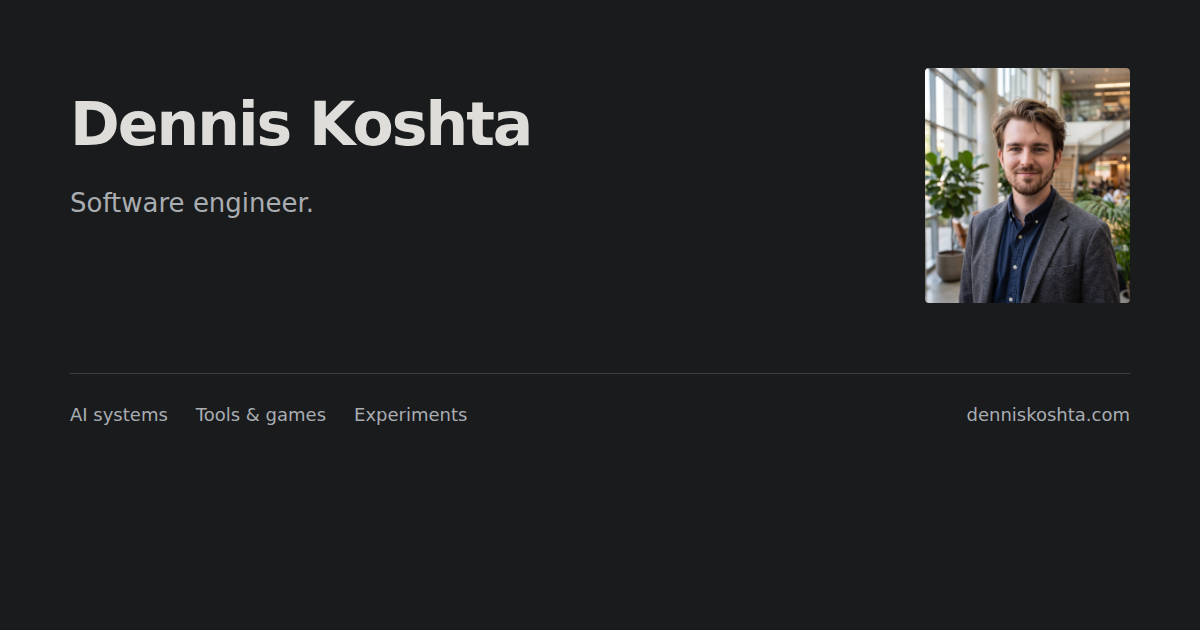
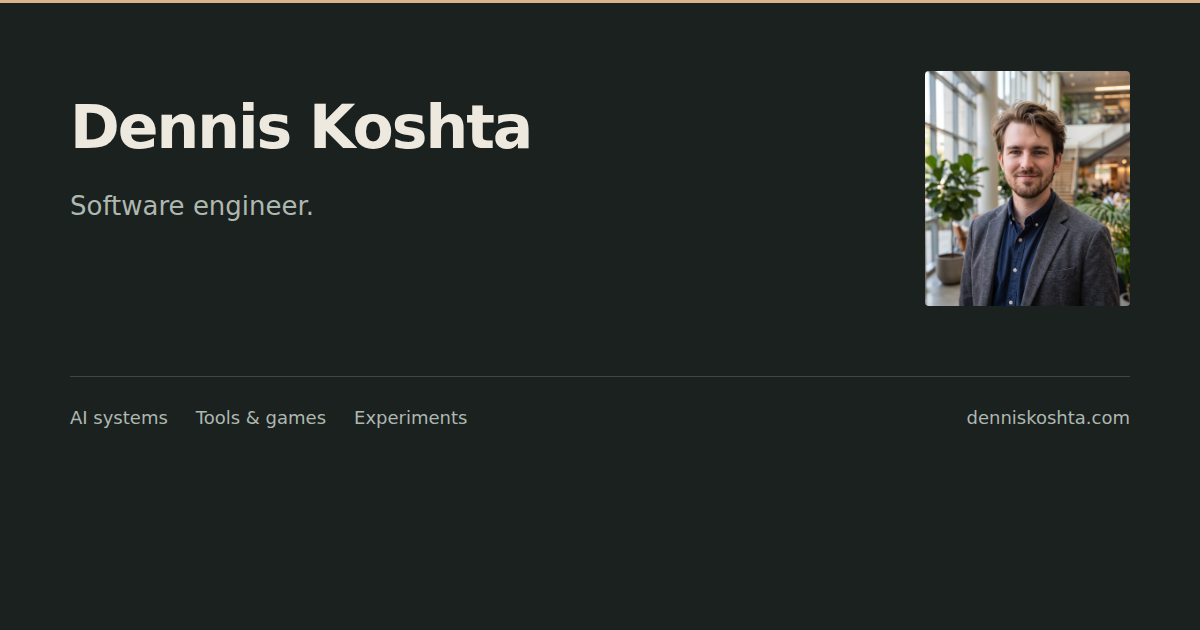
Update Site source

diff --git a/styles/site.css b/styles/site.css
@@ -1,12 +1,14 @@
 /* A text-first personal site. System fonts; no decorative animations. */
 :root {
   color-scheme: dark;
-  --bg: #191b1d;
-  --text: #deddd9;
-  --muted: #a9adb2;
-  --link: #a4c6e6;
-  --rule: #3c3f43;
-  --field: #222528;
+  --bg: #1b211f;
+  --text: #d8ddd6;
+  --heading: #eee9df;
+  --accent: #d8b58b;
+  --muted: #adb8b0;
+  --link: #b6cdbd;
+  --rule: #3c4941;
+  --field: #242e28;
 }
 * { box-sizing: border-box; }
 html { scroll-padding-top: 20px; }
@@ -14,11 +16,12 @@ body { margin: 0; background: var(--bg); color: var(--text); font: 16px/1.65 -ap
 main, .site-header, .site-footer { width: min(100% - 48px, 860px); margin-inline: auto; }
 main { min-height: 50vh; }
 a { color: var(--link); text-decoration-thickness: 1px; text-underline-offset: 3px; }
-a:hover { color: var(--text); }
+a:hover { color: var(--accent); }
+::selection { background: #465a4d; color: #fff; }
 :focus-visible { outline: 2px solid var(--link); outline-offset: 4px; }
 [hidden] { display: none !important; }
-h1, h2, h3 { color: var(--text); line-height: 1.3; font-weight: 600; }
-h1 { font-size: 32px; margin: 0 0 20px; letter-spacing: -.025em; }
+h1, h2, h3 { color: var(--heading); line-height: 1.3; font-weight: 600; }
+h1 { font-size: 36px; margin: 0 0 20px; letter-spacing: -.025em; }
 h2 { font-size: 22px; margin: 0 0 18px; }
 h3 { font-size: 17px; margin: 0 0 5px; }
 p { margin: 0 0 16px; }
@@ -28,11 +31,12 @@ ul, ol { padding-left: 22px; }
 li { margin-bottom: 8px; }
 main > section, .prose > section { margin-top: 38px; }
 .small, .byline, figcaption { color: var(--muted); font-size: 14px; }
-.site-header { display: flex; justify-content: space-between; align-items: baseline; gap: 24px; padding-block: 28px 36px; font-size: 14px; }
+.site-header { position: relative; border-top: 1px solid var(--rule); display: flex; justify-content: space-between; align-items: baseline; gap: 24px; padding-block: 28px 36px; font-size: 14px; }
+.site-header::before { content: ""; position: absolute; top: -1px; left: 0; width: 52px; height: 3px; background: var(--accent); }
 .site-header > a { color: var(--text); text-decoration: none; }
 .site-header nav { display: flex; gap: 24px; }
 .site-header nav a { color: var(--muted); text-decoration: none; }
-.site-header nav a:hover, .site-header nav [aria-current] { color: var(--text); text-decoration: underline; }
+.site-header nav a:hover, .site-header nav [aria-current] { color: var(--accent); text-decoration: underline; text-underline-offset: 7px; }
 .home .site-header { justify-content: flex-end; padding-bottom: 24px; }
 .site-footer { display: flex; justify-content: space-between; gap: 20px; margin-top: 52px; padding-block: 22px 30px; border-top: 1px solid var(--rule); color: var(--muted); font-size: 13px; }
 .site-footer > div { display: flex; gap: 18px; }
@@ -40,22 +44,31 @@ main > section, .prose > section { margin-top: 38px; }
 .skip-link { position: absolute; left: 20px; top: -100px; padding: 8px 14px; background: var(--bg); z-index: 10; }
 .skip-link:focus { top: 10px; }
 .bio { display: grid; grid-template-columns: minmax(0,1fr) 150px; gap: 36px; align-items: start; margin-top: 8px; }
-.bio h1 { margin-bottom: 16px; }
-.portrait { width: 150px; aspect-ratio: .82; height: auto; object-fit: cover; object-position: center 25%; border-radius: 2px; }
+.bio h1 { margin-bottom: 18px; font-size: 42px; letter-spacing: -.04em; }
+.portrait { width: 150px; aspect-ratio: .82; height: auto; object-fit: cover; object-position: center 25%; border-radius: 3px; box-shadow: 5px 5px 0 var(--field); border: 1px solid var(--rule); }
 .contact-links { font-size: 14px; margin-bottom: 0; }
-.home > main > section:not(.bio) > h2 { padding-bottom: 10px; border-bottom: 1px solid var(--rule); }
+.home > main > section:not(.bio) > h2, .catalog-group > h2 { display: flex; align-items: center; gap: 20px; letter-spacing: -.02em; }
+.home > main > section:not(.bio) > h2::after, .catalog-group > h2::after { content: ""; flex: 1; min-width: 20px; height: 1px; background: var(--rule); }
+.home > main > section:not(.bio) { margin-top: 48px; }
 .project-list, .writing-list, .studio-list, .experience-list { padding: 0; list-style: none; margin: 0; }
 .project-entry { margin: 0 0 23px; }
 .project-entry p { margin-bottom: 4px; }
-.project-entry h3 a, .writing-list h3 a, .studio-list h3 a { text-decoration: none; }
-.project-entry h3 a:hover, .writing-list h3 a:hover, .studio-list h3 a:hover { text-decoration: underline; }
+.project-entry h3 a, .writing-list h3 a, .studio-list h3 a, .demo-intro h3 a { color: var(--heading); text-decoration: none; }
+.project-entry h3 a:hover, .writing-list h3 a:hover, .studio-list h3 a:hover, .demo-intro h3 a:hover { color: var(--accent); text-decoration: underline; }
 .resource-links { font-size: 14px; }
 .resource-links span { color: var(--muted); }
-.selected-work .project-entry { margin-bottom: 24px; }
+.selected-work .project-entry { display: grid; grid-template-columns: 172px minmax(0,1fr); column-gap: 24px; margin: 0; padding: 20px 0; border-bottom: 1px solid var(--rule); }
+.selected-work .project-entry:first-child { padding-top: 0; }
+.selected-work .project-entry:last-child { border-bottom: 0; }
+.selected-work .project-entry h3 { grid-column: 1; grid-row: 1 / span 2; }
+.selected-work .project-entry p { grid-column: 2; }
+.selected-work .resource-links { margin-top: 5px; }
+.home .writing-list { display: grid; grid-template-columns: repeat(2,minmax(0,1fr)); gap: 28px; }
+.home .writing-list li { margin: 0; padding-left: 16px; border-left: 2px solid var(--rule); }
 .writing-list li { margin-bottom: 22px; }
 .writing-list p { margin: 5px 0 0; color: var(--muted); font-size: 15px; }
 .demo-intro { display: grid; grid-template-columns: 200px minmax(0,1fr); gap: 22px; align-items: start; margin: 22px 0; }
-.demo-intro > img { width: 200px; aspect-ratio: 1.5; object-fit: cover; object-position: top; border: 1px solid var(--rule); }
+.demo-intro > img { width: 200px; aspect-ratio: 1.5; object-fit: cover; object-position: top; border: 1px solid var(--rule); border-radius: 4px; padding: 3px; background: var(--field); }
 .demo-intro p { margin-bottom: 0; }
 details { margin-block: 16px; }
 summary { cursor: pointer; color: var(--link); font-size: 14px; width: fit-content; }
@@ -80,11 +93,11 @@ button:hover { border-color: var(--muted); }
 .catalog-controls input::placeholder { color: var(--muted); }
 .result-count { color: var(--muted); font-size: 13px; margin-bottom: 24px; }
 .catalog-group { margin-top: 32px; }
-.catalog-group h2 { border-bottom: 1px solid var(--rule); padding-bottom: 10px; }
+.catalog-group > h2 { margin-bottom: 24px; }
 .empty-results { padding-block: 20px; }
 .studio-list { margin-top: 32px; }
 .studio-list > li { display: grid; grid-template-columns: 180px minmax(0,1fr); gap: 24px; margin-bottom: 30px; }
-.studio-list img { width: 180px; aspect-ratio: 1.5; object-fit: cover; object-position: top; border: 1px solid var(--rule); }
+.studio-list img { border-radius: 4px; padding: 3px; background: var(--field); width: 180px; aspect-ratio: 1.5; object-fit: cover; object-position: top; border: 1px solid var(--rule); }
 .studio-list h3 { font-size: 18px; margin-bottom: 8px; }
 .studio-list p { font-size: 15px; margin-bottom: 8px; }
 .studio-list .resource-links { font-size: 14px; }
@@ -117,7 +130,7 @@ tbody tr:last-child > * { border-bottom: 0; }
 .sources li { font-size: 14px; margin-bottom: 10px; }
 .about-bio { display: grid; grid-template-columns: 150px minmax(0,1fr); gap: 32px; }
 .about-bio p:last-child { margin-bottom: 0; }
-.experience-list li { margin-bottom: 24px; }
+.experience-list li { margin-bottom: 24px; padding-left: 18px; border-left: 2px solid var(--rule); }
 .experience-list p { margin-bottom: 6px; }
 @media (max-width: 600px) {
   main, .site-header, .site-footer { width: calc(100% - 36px); }
@@ -129,7 +142,10 @@ tbody tr:last-child > * { border-bottom: 0; }
   .bio { display: block; position: relative; }
   .bio .portrait { position: absolute; top: 0; right: 0; width: 92px; }
   .bio h1 { min-height: 118px; padding-top: 16px; padding-right: 110px; margin-bottom: 12px; font-size: 28px; }
-  main > section, .prose > section { margin-top: 30px; }
+  main > section, .prose > section, .home > main > section:not(.bio) { margin-top: 34px; }
+  .selected-work .project-entry { display: block; padding-block: 16px; }
+  .selected-work .project-entry h3 { margin-bottom: 8px; }
+  .home .writing-list { grid-template-columns: 1fr; gap: 20px; }
   .demo-intro { grid-template-columns: 100px minmax(0,1fr); gap: 16px; }
   .demo-intro > img { width: 100px; aspect-ratio: 1.15; }
   .demo-intro p { font-size: 14px; }
@@ -149,7 +165,7 @@ tbody tr:last-child > * { border-bottom: 0; }
   .site-footer > div { gap: 16px; }
 }
 @media print {
-  :root { color-scheme: light; --bg: white; --text: #111; --muted: #444; --link: #224466; --rule: #bbb; --field: #eee; }
+  :root { color-scheme: light; --bg: white; --text: #111; --heading: #111; --accent: #224466; --muted: #444; --link: #224466; --rule: #bbb; --field: #eee; }
   .site-header, .site-footer, .skip-link, .live-demo, .catalog-controls { display: none; }
   main { width: 100%; }
   body { font-size: 11pt; }
